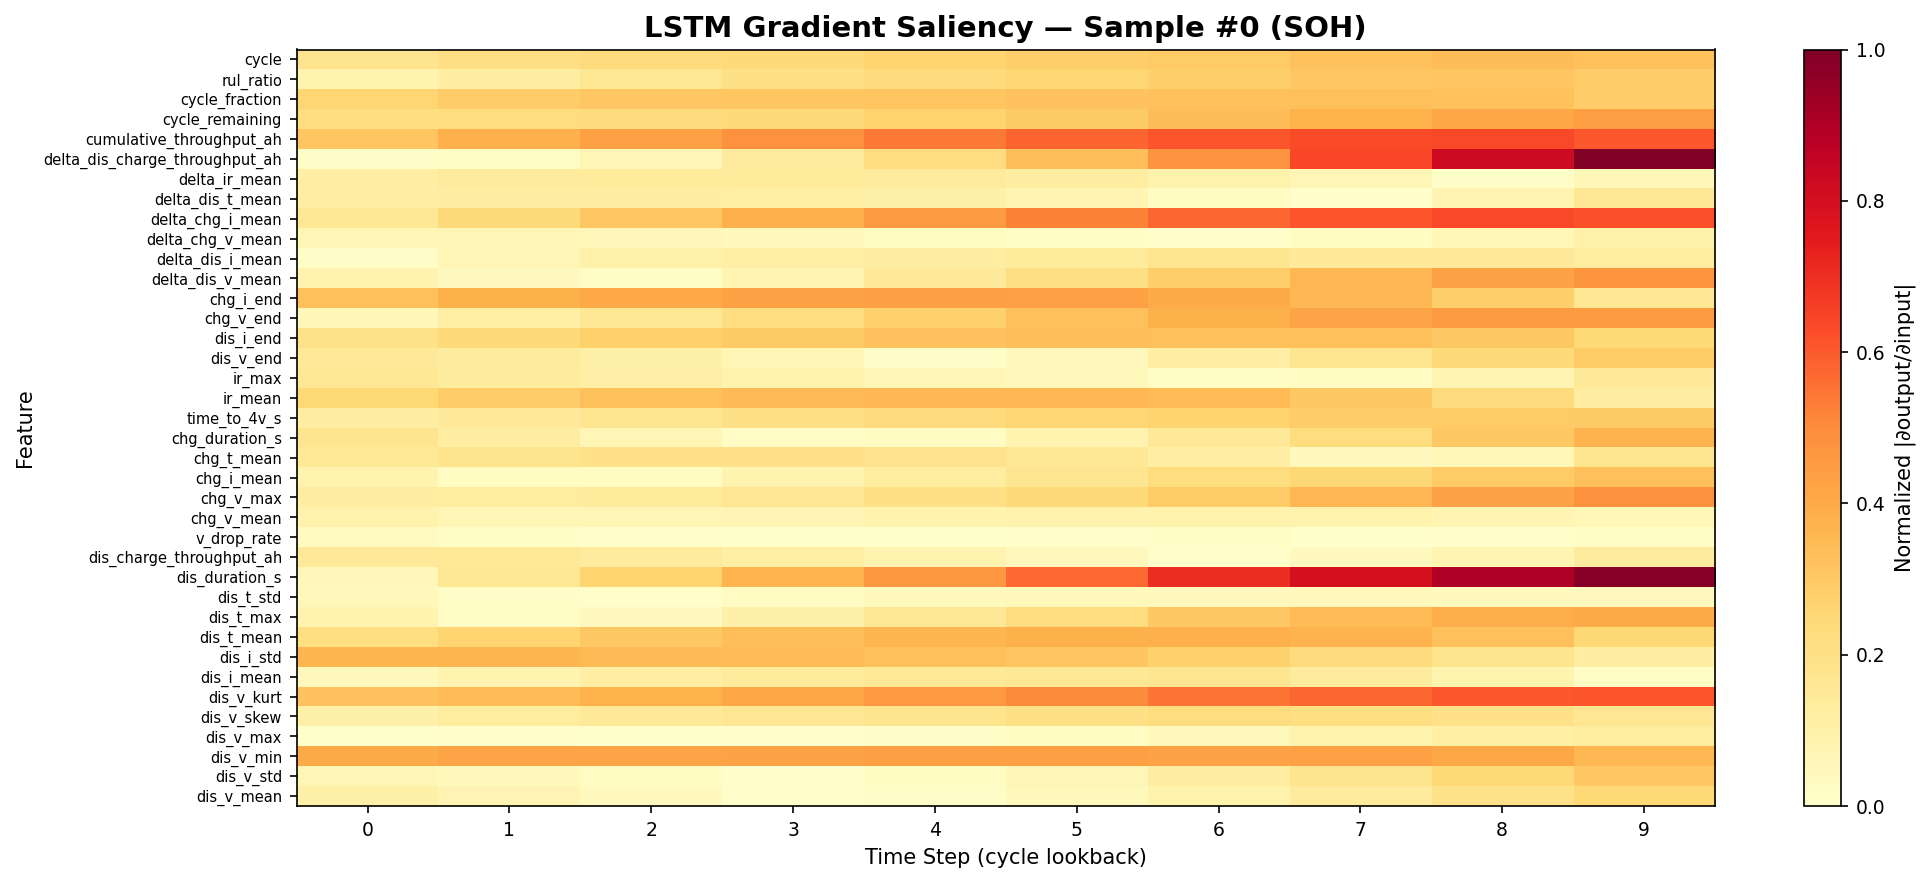
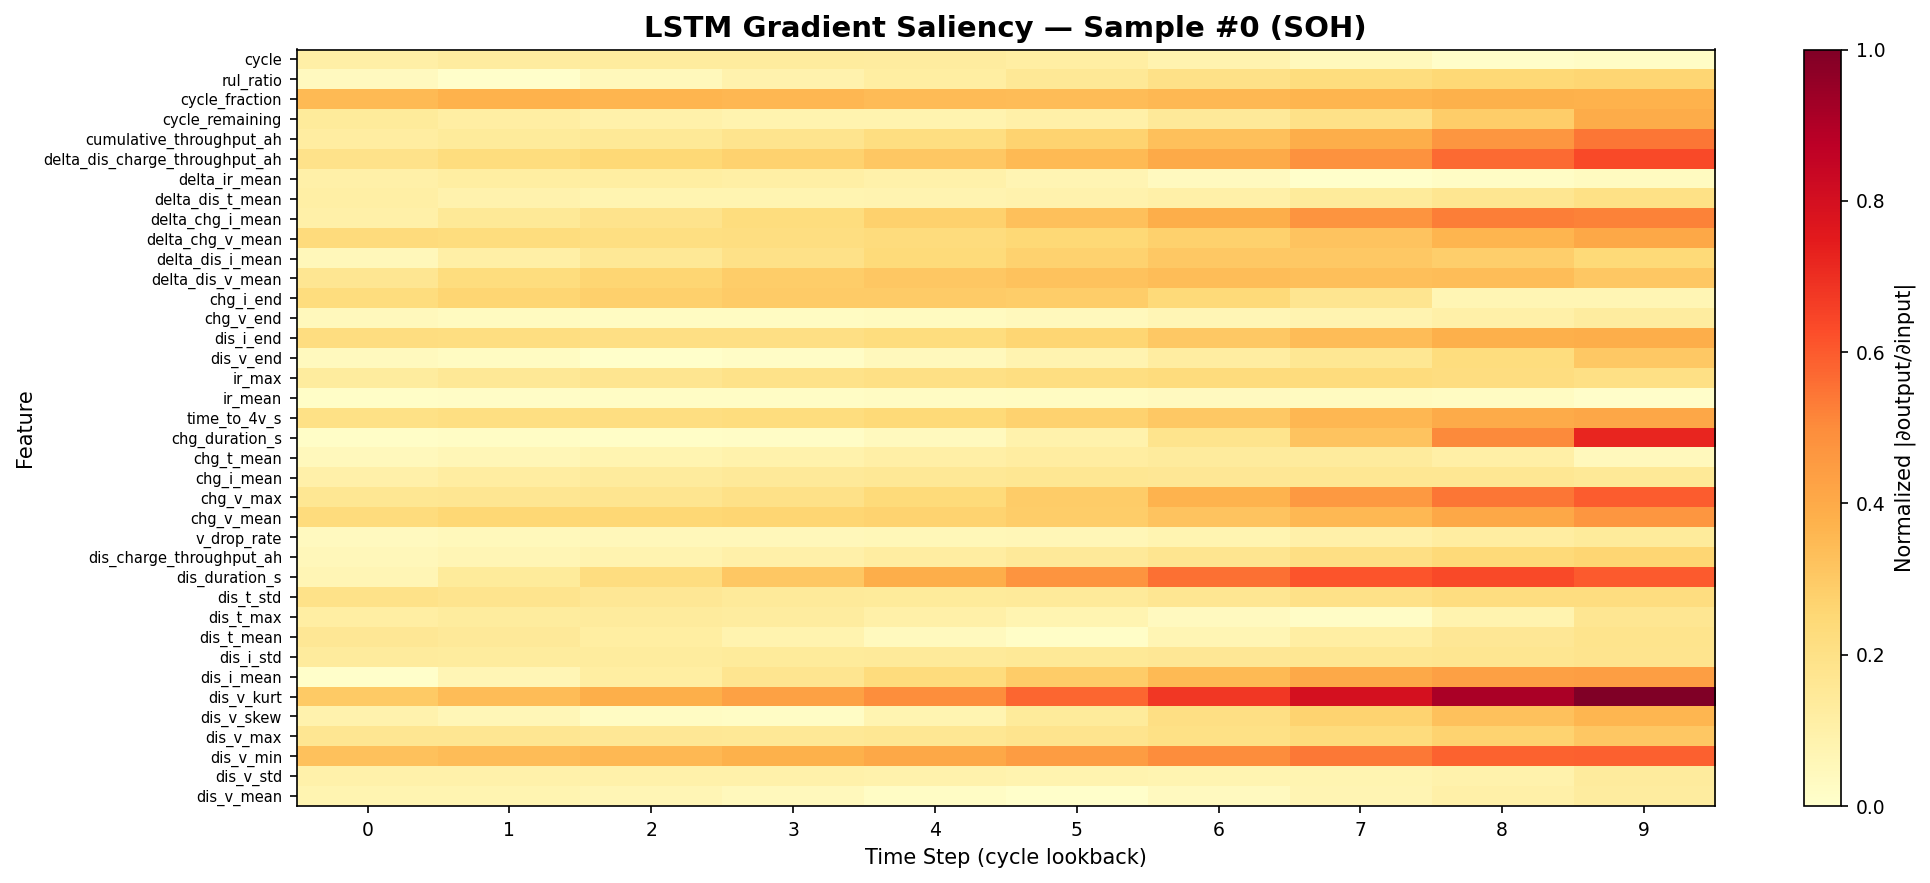
some changes

diff --git a/utils/data_loader.py b/utils/data_loader.py
@@ -24,8 +24,6 @@ import shutil
 import tempfile
 from pathlib import Path
 import pandas as pd
-import os
-import glob
 from typing import Optional
 
 
@@ -255,7 +253,6 @@ def _load_nasa_kaggle_folder(path: Path) -> Optional[pd.DataFrame]:
     rul_rows = []
     for battery_id, bat in leaderboard.groupby("battery_id"):
         bat = bat.sort_values("cycle")
-        nominal_cap = nominal.get(battery_id, 1.0)
         eol_cycle = bat[bat["soh"] < 0.8]["cycle"]
         eol_cycle = int(eol_cycle.iloc[0]) if not eol_cycle.empty else int(bat["cycle"].max())
         for _, row in bat.iterrows():
@@ -356,19 +353,62 @@ def generate_battery_dataset(source: Optional[str] = None, save_path: str = "dat
     - If `source` is a path it will be loaded.
     - The loaded DataFrame will be saved to `save_path/battery_telemetry_raw.parquet`.
     """
-    df = load_raw(source, dest=save_path)
+    # Try to load real data; if not found, fall back to a small synthetic
+    # generator to keep tests and downstream pipelines working.
+    try:
+        df = load_raw(source, dest=save_path)
+    except FileNotFoundError:
+        # Minimal synthetic fallback: small reproducible dataset (used in tests)
+        import numpy as _np
+
+        Path(save_path).mkdir(parents=True, exist_ok=True)
+        rng = _np.random.default_rng(42)
+        records = []
+        batteries = ["B0005", "B0045", "B0047"]
+        max_cycles = 12
+        for battery_id in batteries:
+            for cycle in range(max_cycles):
+                nominal_capacity = 2.0
+                capacity = nominal_capacity * _np.exp(-0.003 * cycle) + rng.normal(0, 0.01)
+                # bound capacity to [0.5, nominal_capacity] to ensure soh in [0,1]
+                capacity = float(min(nominal_capacity, max(0.5, capacity)))
+                soh = float(capacity / nominal_capacity)
+                rul = max(0, max_cycles - cycle)
+                ir = 0.05 + 0.001 * cycle + rng.normal(0, 0.001)
+                for mode in ("discharge", "charge"):
+                    n_pts = 5
+                    for t_i in range(n_pts):
+                        ts = float(t_i * 60)
+                        voltage = float(_np.clip(4.2 - 0.6 * (t_i / n_pts) - 0.1 * cycle / max_cycles + rng.normal(0, 0.01), 2.7, 4.2))
+                        current = float(-1.0 if mode == "discharge" else 1.0) + float(rng.normal(0, 0.02))
+                        temp = float(24.0 + 0.5 * cycle / max_cycles + rng.normal(0, 0.3))
+                        records.append({
+                            "battery_id": battery_id,
+                            "cycle": int(cycle),
+                            "mode": mode,
+                            "timestamp_s": ts,
+                            "voltage": voltage,
+                            "current": current,
+                            "temperature": temp,
+                            "capacity": round(float(capacity), 5),
+                            "soh": round(float(soh), 5),
+                            "rul": int(rul),
+                            "internal_resistance": round(float(ir), 5),
+                        })
+
+        df = pd.DataFrame.from_records(records)
+
+    # Save to parquet (or CSV fallback)
     Path(save_path).mkdir(parents=True, exist_ok=True)
     out = Path(save_path) / "battery_telemetry_raw.parquet"
     try:
         df.to_parquet(out, index=False)
+        print(f"Saved raw data -> {out}")
     except Exception:
-        # fallback: try CSV
         out_csv = Path(save_path) / "battery_telemetry_raw.csv"
         df.to_csv(out_csv, index=False)
         print(f"Saved raw data -> {out_csv}")
-        return df
 
-    print(f"Saved raw data -> {out}")
     return df
 
 

diff --git a/tests/test_core.py b/tests/test_core.py
@@ -18,13 +18,13 @@ sys.path.insert(0, str(Path(__file__).resolve().parent.parent))
 
 class TestDataGenerator:
     def test_generates_dataframe(self, tmp_path):
-        from utils.data_generator import generate_battery_dataset
+        from utils.data_loader import generate_battery_dataset
         df = generate_battery_dataset(save_path=str(tmp_path))
         assert isinstance(df, pd.DataFrame)
         assert len(df) > 0
 
     def test_required_columns(self, tmp_path):
-        from utils.data_generator import generate_battery_dataset
+        from utils.data_loader import generate_battery_dataset
         df = generate_battery_dataset(save_path=str(tmp_path))
         required = ["battery_id", "cycle", "voltage", "current",
                     "temperature", "soh", "rul", "capacity"]
@@ -32,17 +32,17 @@ class TestDataGenerator:
             assert col in df.columns, f"Missing column: {col}"
 
     def test_soh_range(self, tmp_path):
-        from utils.data_generator import generate_battery_dataset
+        from utils.data_loader import generate_battery_dataset
         df = generate_battery_dataset(save_path=str(tmp_path))
         assert df["soh"].between(0.0, 1.0).all(), "SoH must be in [0, 1]"
 
     def test_voltage_range(self, tmp_path):
-        from utils.data_generator import generate_battery_dataset
+        from utils.data_loader import generate_battery_dataset
         df = generate_battery_dataset(save_path=str(tmp_path))
         assert df["voltage"].between(2.0, 4.5).all(), "Voltage out of Li-ion range"
 
     def test_three_batteries(self, tmp_path):
-        from utils.data_generator import generate_battery_dataset
+        from utils.data_loader import generate_battery_dataset
         df = generate_battery_dataset(save_path=str(tmp_path))
         assert df["battery_id"].nunique() == 3
 
@@ -54,7 +54,7 @@ class TestDataGenerator:
 class TestFeatureEngineering:
     @pytest.fixture
     def raw_df(self, tmp_path):
-        from utils.data_generator import generate_battery_dataset
+        from utils.data_loader import generate_battery_dataset
         return generate_battery_dataset(save_path=str(tmp_path))
 
     def test_extract_cycle_features_shape(self, raw_df):
@@ -126,7 +126,7 @@ class TestRiskScoring:
 
 class TestAnomalyDetection:
     def test_fit_predict(self, tmp_path):
-        from utils.data_generator import generate_battery_dataset
+        from utils.data_loader import generate_battery_dataset
         from utils.feature_engineering import extract_cycle_features
         from utils.risk_scoring import BatteryAnomalyDetector
 
@@ -140,7 +140,7 @@ class TestAnomalyDetection:
         assert len(preds) == len(feat)
 
     def test_annotate_adds_columns(self, tmp_path):
-        from utils.data_generator import generate_battery_dataset
+        from utils.data_loader import generate_battery_dataset
         from utils.feature_engineering import extract_cycle_features
         from utils.risk_scoring import BatteryAnomalyDetector
 

diff --git a/training/run_all.py b/training/run_all.py
@@ -38,11 +38,11 @@ except Exception as e:
     SEQ_LEN = 10
     print(f"[Warning] Deep learning module unavailable, skipping DL pipeline: {e}")
 
-_utils_data_generator = importlib.import_module("utils.data_generator")
+_utils_data_loader = importlib.import_module("utils.data_loader")
 _utils_feature_engineering = importlib.import_module("utils.feature_engineering")
 _utils_risk_scoring = importlib.import_module("utils.risk_scoring")
 
-generate_battery_dataset = _utils_data_generator.generate_battery_dataset
+generate_battery_dataset = _utils_data_loader.generate_battery_dataset
 extract_cycle_features = _utils_feature_engineering.extract_cycle_features
 BatteryAnomalyDetector = _utils_risk_scoring.BatteryAnomalyDetector
 compute_degradation_rate = _utils_risk_scoring.compute_degradation_rate
@@ -234,8 +234,8 @@ def main():
     print("  EV BATTERY HEALTH AI — FULL TRAINING PIPELINE")
     print("█"*60)
 
-    # 1. Generate data
-    print("\n[1/6] Generating synthetic battery telemetry...")
+    # 1. Load data
+    print("\n[1/6] Loading battery telemetry dataset...")
     raw_df = generate_battery_dataset(save_path="data/raw")
 
     # 2. Feature engineering

diff --git a/training/train_ml.py b/training/train_ml.py
@@ -298,7 +298,7 @@ def train_ml_models(feat_df: pd.DataFrame) -> dict:
 
 
 if __name__ == "__main__":
-    from utils.data_generator import generate_battery_dataset
+    from utils.data_loader import generate_battery_dataset
     raw = generate_battery_dataset()
     feat = extract_cycle_features(raw)
     metrics = train_ml_models(feat)

diff --git a/training/train_dl.py b/training/train_dl.py
@@ -409,7 +409,7 @@ def train_dl_pipeline(feat_df) -> dict:
 
 
 if __name__ == "__main__":
-    from utils.data_generator import generate_battery_dataset
+    from utils.data_loader import generate_battery_dataset
     from utils.feature_engineering import extract_cycle_features
 
     raw  = generate_battery_dataset()

diff --git a/utils/feature_engineering.py b/utils/feature_engineering.py
@@ -279,7 +279,7 @@ def build_lstm_sequences(
 
 
 if __name__ == "__main__":
-    from utils.data_generator import generate_battery_dataset
+    from utils.data_loader import generate_battery_dataset
     raw = generate_battery_dataset()
     feat = extract_cycle_features(raw)
     print(feat.shape)

diff --git a/README.md b/README.md
@@ -62,19 +62,15 @@ Raw Telemetry (V, I, T, cycles)
 
 ## 📊 Dataset & Data Folder Structure
 
-This project uses a **physics-inspired synthetic dataset** modelled after the [NASA Prognostics Center of Excellence Battery Dataset](https://www.nasa.gov/content/prognostics-center-of-excellence-data-set-repository):
+This repository now includes the real NASA-style dataset (see the `Nasa_kaggle_dataset/` folder) and the codebase prefers loading real telemetry when available.
 
-| Property | Value |
-|---|---|
-| Cell type | Li-ion 18650 |
-| Nominal capacity | 2.0 Ah |
-| Voltage range | 2.7 – 4.2 V |
-| Batteries | 34 simulated batteries (B0005–B0056) |
-| Max cycles | ~200 per battery |
-| Records | ~200,000 timestep rows |
-| Features (cycle-level) | 38 engineered features |
+- Real dataset: `Nasa_kaggle_dataset/` contains `metadata.csv` and many per-test CSV files matching the original NASA Kaggle layout.
+- Loader: Use `utils.data_loader.generate_battery_dataset()` — it will load local datasets, download a Kaggle dataset id (owner/dataset) if provided, or read the tracked raw Parquet/CSV in `data/raw/`.
+- Removed generator: The old `utils/data_generator.py` (synthetic-only module) has been removed to avoid confusion.
+- Test-friendly fallback: When no raw file is found, `generate_battery_dataset(save_path=...)` creates a small, deterministic fallback dataset (3 batteries, ~12 cycles each) and writes `battery_telemetry_raw.parquet` into the provided `save_path` so tests and pipelines remain reproducible.
 
-**Why synthetic?** The real NASA dataset requires manual preprocessing from MATLAB `.mat` files. Our generator produces statistically equivalent data following the same exponential capacity-fade physics, making it reproducible and internship-portfolio ready. Swap `generate_battery_dataset()` with any real CSV loader — the pipeline is data-agnostic.
+Notes:
+- If you want the original large synthetic generator behavior, re-create it or generate your own dataset via `training/run_all.py`.
 
 ### Data Folder Organization
 
